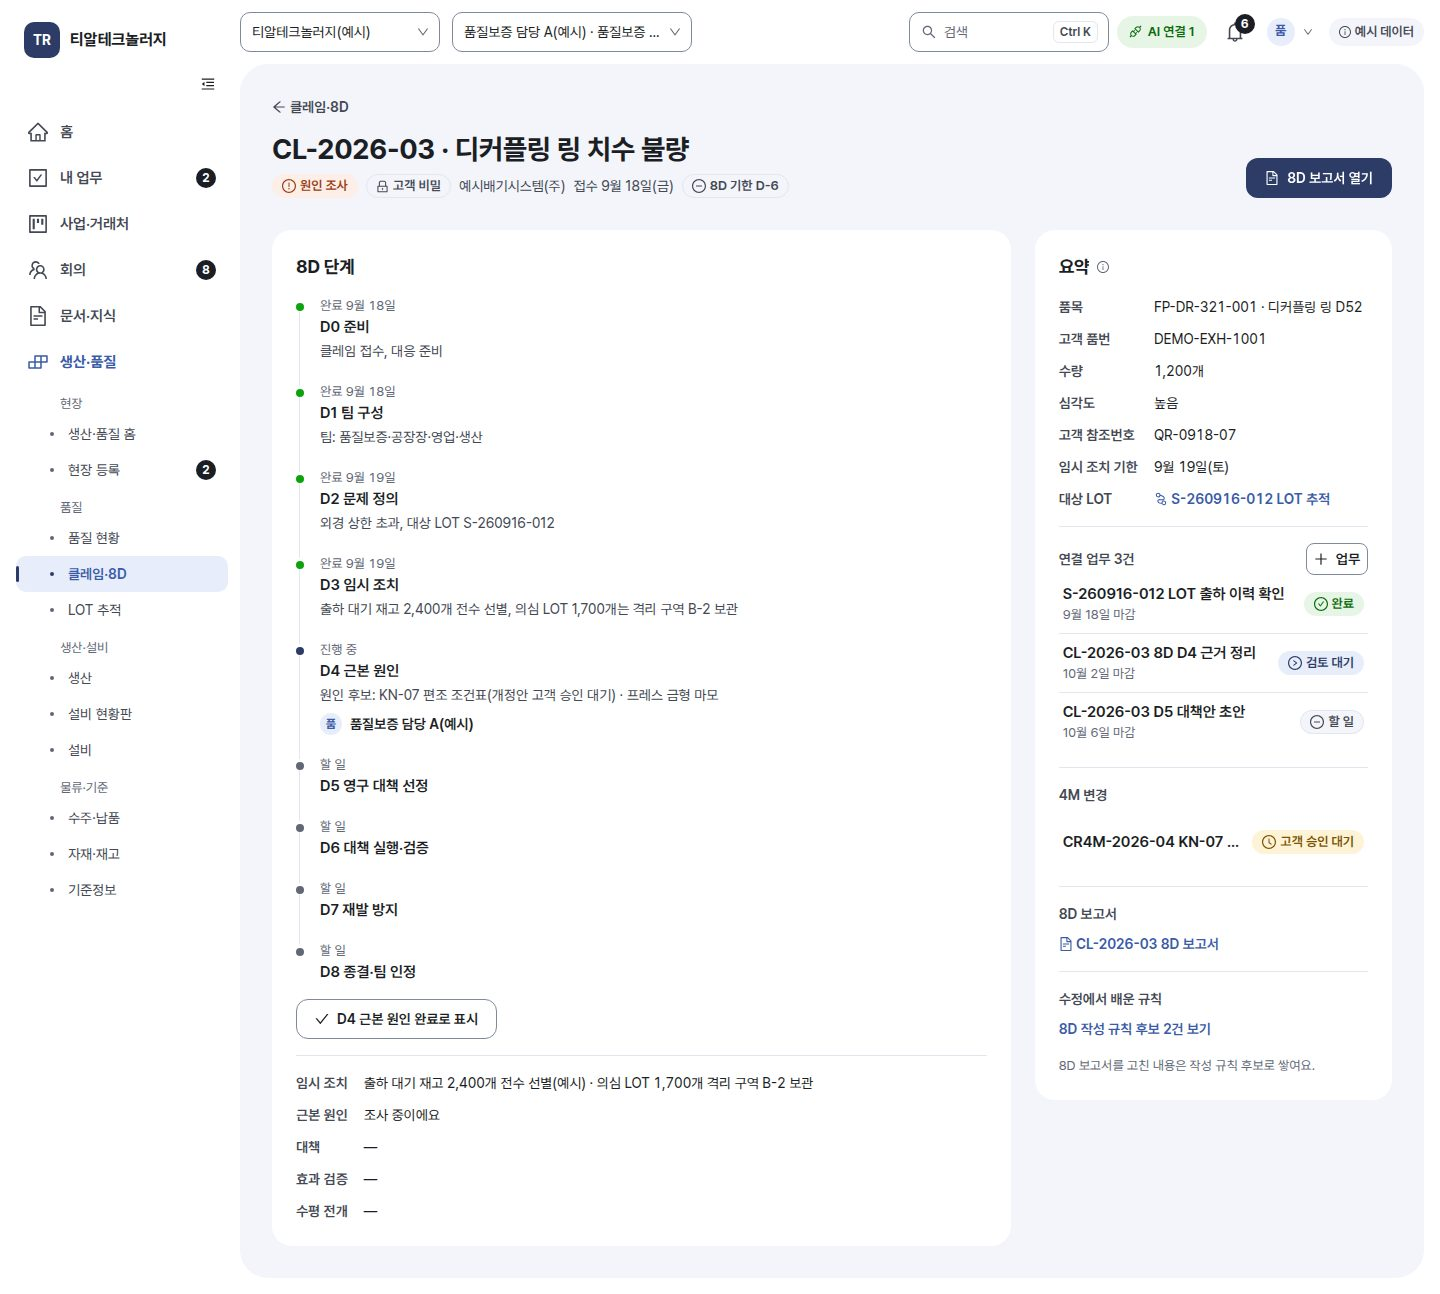
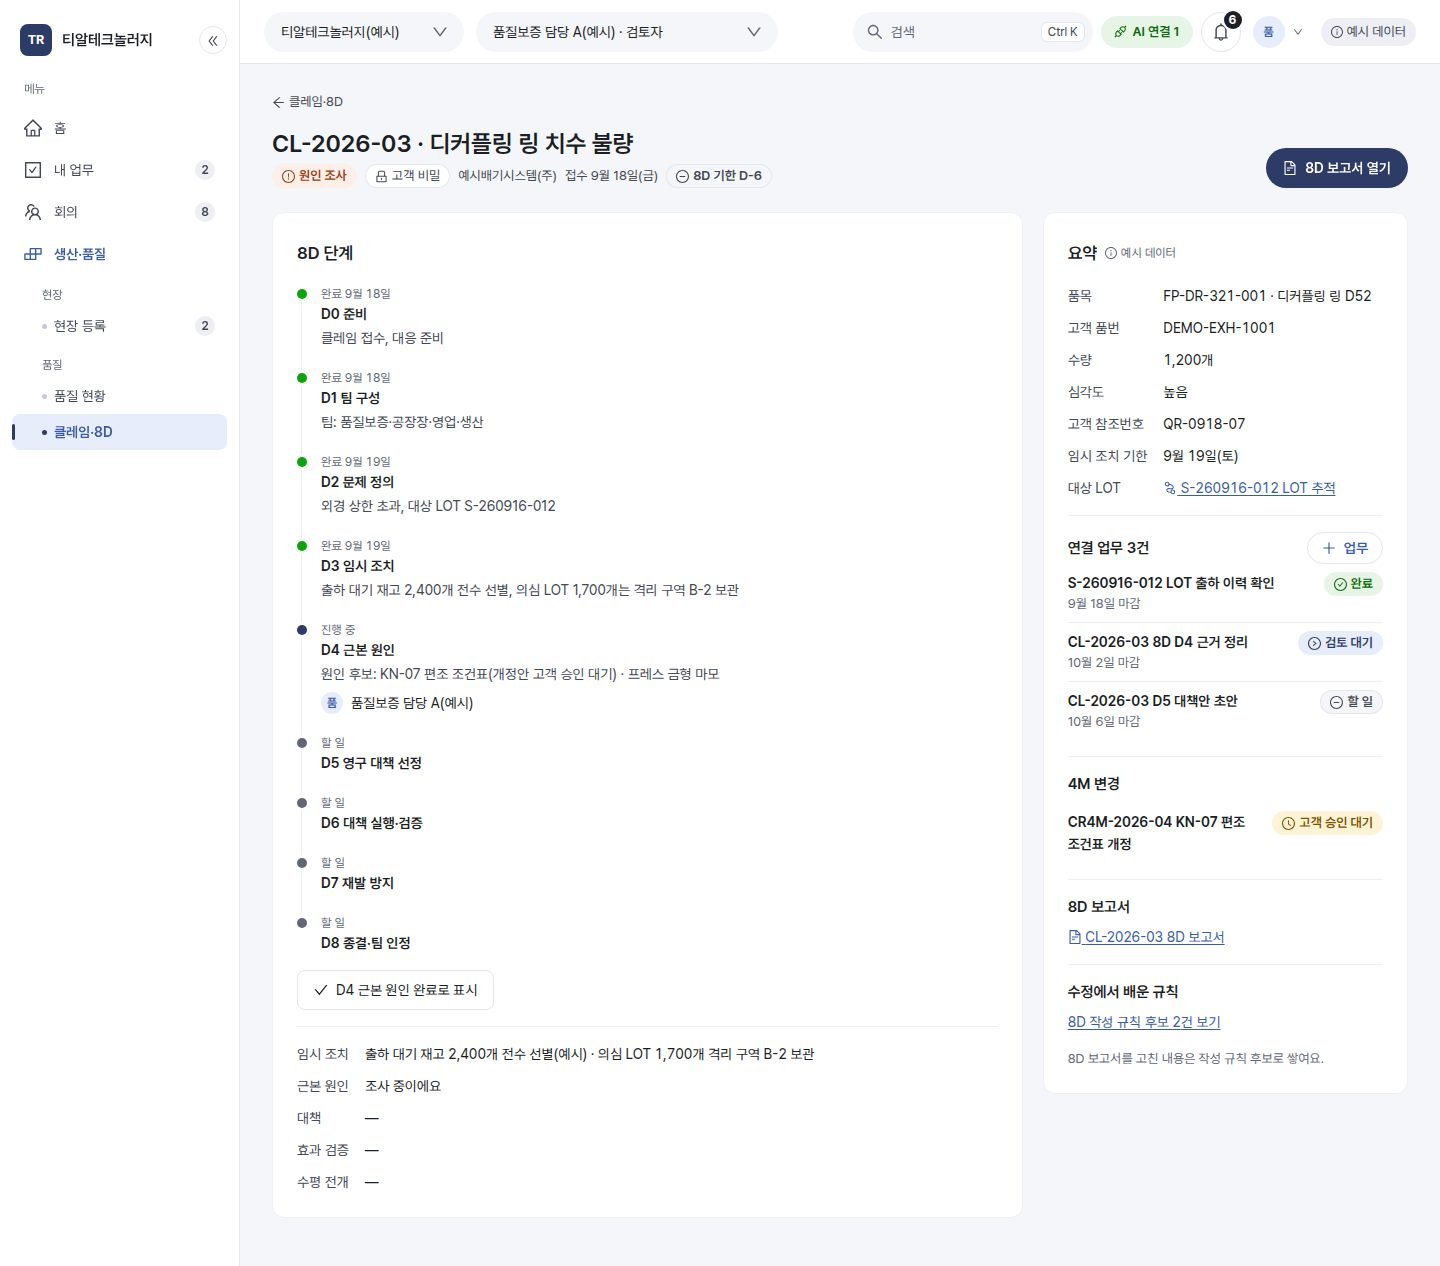
Refresh screenshots and README for the Orbix-style redesign
Docs screenshots 01-15 recaptured in the new design (01/02 at the full
rollout stage, 11-14 phase 1, 15 quality). README design and
verification rows describe the Orbix Studio style and link the spec.

Claude-Session: https://claude.ai/code/session_01B5ZYiEdML5xSAee1VyFnoY

diff --git a/README.md b/README.md
@@ -45,12 +45,12 @@
 | 회사·사람 바꿔 보기 | 상단 선택 상자, 또는 `?tenant=tr-technology&as=R_PLANT_MGR` / `?tenant=crata-demo&as=R_CEO` |
 | 스택 | Refine 5 + Ant Design 5 + React 18 + React Router 7 + Vite + TypeScript, Pretendard ([05 기술 스택](docs/worksite/05_tech-stack.md)). GraphQL·DB는 다음 단계에서 Supabase 서울로 연결 |
 | 화면 | 63개 경로. 공통 코어(홈, 내 업무·검토함, 사업·프로젝트, 회의, 문서·양식·수정 규칙·지식, 회사(공지·일정·결재·구성원·조직도), 내 AI 연결, ARA, 관리) + 제조업 팩(생산·품질 홈, 현장 등록, 수주·납품, 생산, 설비 현황판, 품질·클레임 8D, LOT 추적, 자재·재고, 기준정보, 안전보건) |
-| 디자인 | 사용자 레퍼런스(스마트경리 대시보드)의 구조는 살리고 'AI 티'(그라데이션·보라·카드 안 카드)는 뺐습니다. 회사 브랜드색은 설정값입니다(티알 남색, CRATA 딥 틸 가안) ([01 디자인 레퍼런스](docs/worksite/01_design-references.md)) |
+| 디자인 | **Orbix Studio 대시보드 스타일**(instagram.com/orbixdashboard, 레퍼런스 52장)로 다시 만들었습니다: 회색 캔버스 + 흰 사이드바·상단 바 틀, 거의 안 보이는 1px 테두리의 흰 카드(라운드 12), 알약 모양 툴바·행 버튼, 큰 숫자 옆 증감 칩, 강조 막대 하나 + 옅은 나머지 차트, 도넛·게이지. 'AI 티'(그라데이션·블러·카드 안 카드)는 여전히 뺐고, 강조색은 회사 브랜드 하나입니다(티알 남색, CRATA 딥 틸 가안) ([07 Orbix 리디자인 명세](docs/worksite/07_orbix-redesign.md), 이전 레퍼런스 [01](docs/worksite/01_design-references.md)) |
 | 공통 항목 | 공통 코어 31개(P0 14 · P1 11 · P2 6) + 업종 팩(제조 6 · 교육·컨설팅 2). 메신저·메일 클라이언트·전자결재 엔진·ERP는 만들지 않고 연동합니다 ([02 공통 모듈](docs/worksite/02_common-modules.md), [config/worksite_modules.yaml](config/worksite_modules.yaml)) |
 | 첫 고객 | 공개 정보만 반영했습니다: 조직도, 공정(편조→크림핑·프레스·스파이럴링), 설비 대수, 제품·소재. 나머지는 진단에서 확인할 가설입니다 ([03 티알테크놀러지](docs/worksite/03_tr-technology.md), [clients/tr-technology/company_profile.yaml](clients/tr-technology/company_profile.yaml)) |
 | 운영 부담 줄이기 | **도입 단계**: 티알은 '1단계'(홈 + 화면 7개)로 시작하고, 관리 › 모듈 › 도입 단계에서 버튼 한 번으로 '전체'로 넓힙니다(모듈·데이터는 그대로, 메뉴·홈만 바뀜). **홈 '승인 대기'**: 검토 승인·회의 액션→업무·분류 확인·결정 확정·현장 배정·작성 규칙을 AI·회사 규칙이 미리 채우고 사람은 한 번 누릅니다. 화면 63개를 하나씩 센 결과와 자동화 방법은 [06 입력 부담 점검](docs/worksite/06_input-burden-audit.md) |
-| 설계서 | [00 빌드 스펙](docs/worksite/00_build-spec.md) · 화면 캡처 [docs/worksite/screenshots](docs/worksite/screenshots)(11~14번이 1단계 화면) |
-| 검증 | typecheck · build · 단위 테스트 67개 · 규칙 검사 · e2e 258개 통과, 두 회사 전 경로 콘솔 오류 0. 승인 대기의 모든 버튼을 두 회사 10개 역할로 눌러 끝까지 되는지 확인. 디자인·UX·코드 3중 리뷰 3회 |
+| 설계서 | [00 빌드 스펙](docs/worksite/00_build-spec.md) · 화면 캡처 [docs/worksite/screenshots](docs/worksite/screenshots)(01·02 전체 단계, 11~14 1단계 화면, 모두 새 디자인) |
+| 검증 | typecheck · build · 단위 테스트 67개 · 규칙 검사 · e2e 258개 통과, 두 회사 전 경로 콘솔 오류 0. 승인 대기의 모든 버튼을 두 회사 10개 역할로 눌러 끝까지 되는지 확인. 디자인·UX·코드 3중 리뷰 3회. Orbix 리디자인 뒤 화면 36장 × 시각 리뷰 5라운드(레퍼런스 충실도·레이아웃 회귀·일관성·접근성·모바일)로 고치고 e2e 258개 다시 통과 |
 
 > 화면의 모든 숫자·사람·거래처는 **예시 데이터**입니다. 실존 인물 이름과 티알 로고 이미지는 쓰지 않았습니다.
 
@@ -125,7 +125,7 @@
 | 경로 | 내용 |
 |---|---|
 | [apps/worksite](apps/worksite) | **공통 업무사이트 뼈대** (Refine + Ant Design). 실행 방법과 구조는 [apps/worksite/README.md](apps/worksite/README.md) |
-| [docs/worksite](docs/worksite) | 뼈대 설계 문서: 00 빌드 스펙, 01 디자인 레퍼런스, 02 공통 모듈, 03 티알테크놀러지(제조업 팩), 05 기술 스택, 06 입력 부담 점검(화면 63개 · 1단계 구성), 화면 캡처 |
+| [docs/worksite](docs/worksite) | 뼈대 설계 문서: 00 빌드 스펙, 01 디자인 레퍼런스, 02 공통 모듈, 03 티알테크놀러지(제조업 팩), 05 기술 스택, 06 입력 부담 점검(화면 63개 · 1단계 구성), 07 Orbix 리디자인 명세, 화면 캡처 |
 | [clients/tr-technology/company_profile.yaml](clients/tr-technology/company_profile.yaml) | 첫 고객 Company DNA Profile 초안(공개 사실만, 나머지 TODO) |
 | [docs/research/00_direction.md](docs/research/00_direction.md) | **최상위 문서**: 사용자 방향 정리, "이미 있는데 의미가 있나"에 대한 답, 방향 검토(맞는 것·고칠 것), 모듈 지도, 실행 순서, 첫 판매 기준, 결정할 것 |
 | [docs/research/01_market-map.md](docs/research/01_market-map.md) | 국내외 유사 서비스 리서치 맵(카테고리별 표), Top 10 레퍼런스, 한국 시장 특수성, CRATA 포지셔닝·상품화·가격, 다음 액션 |
